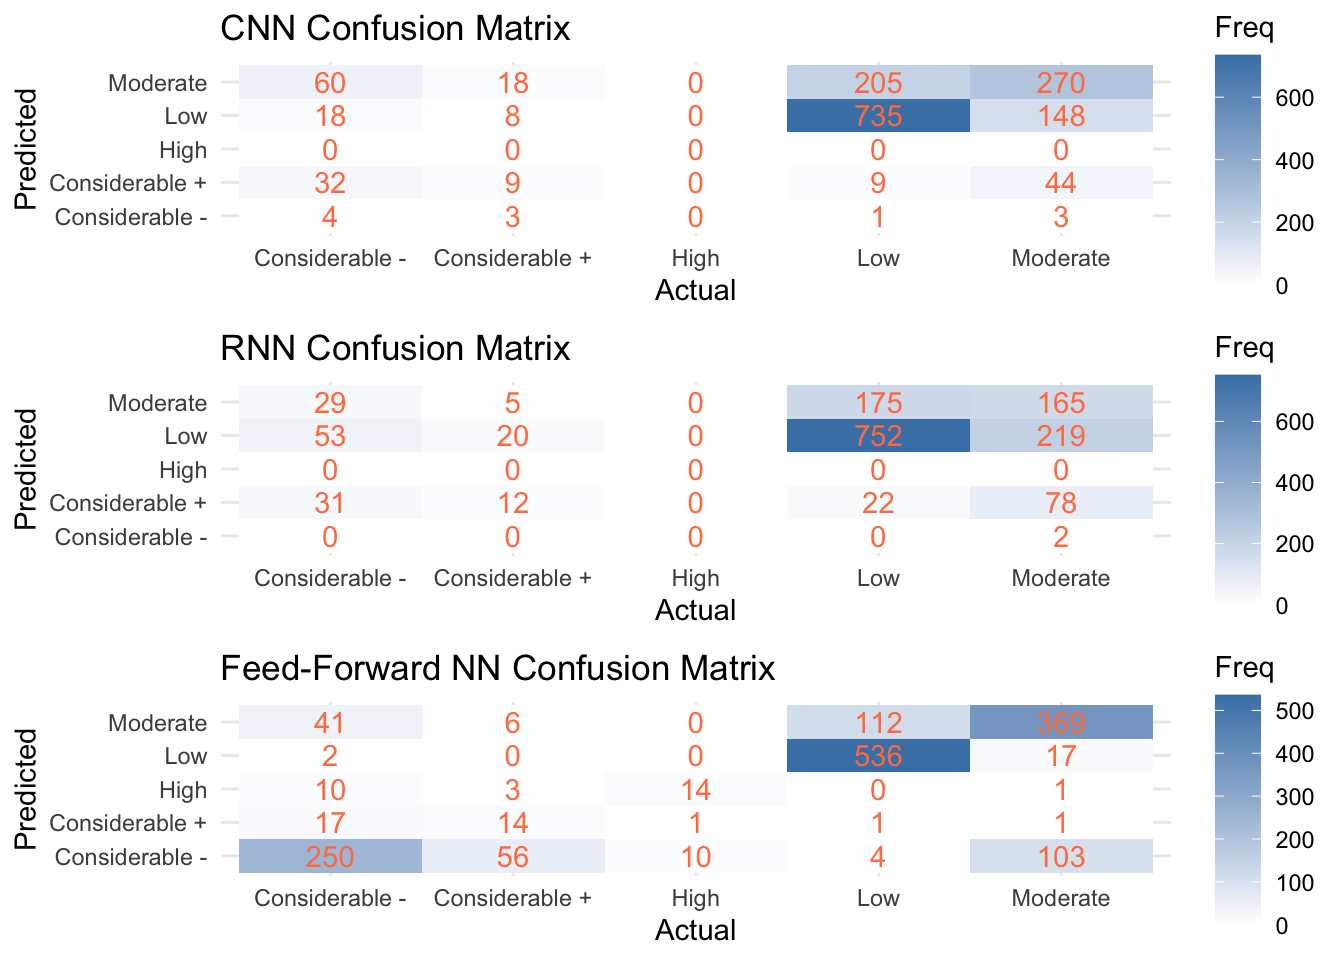
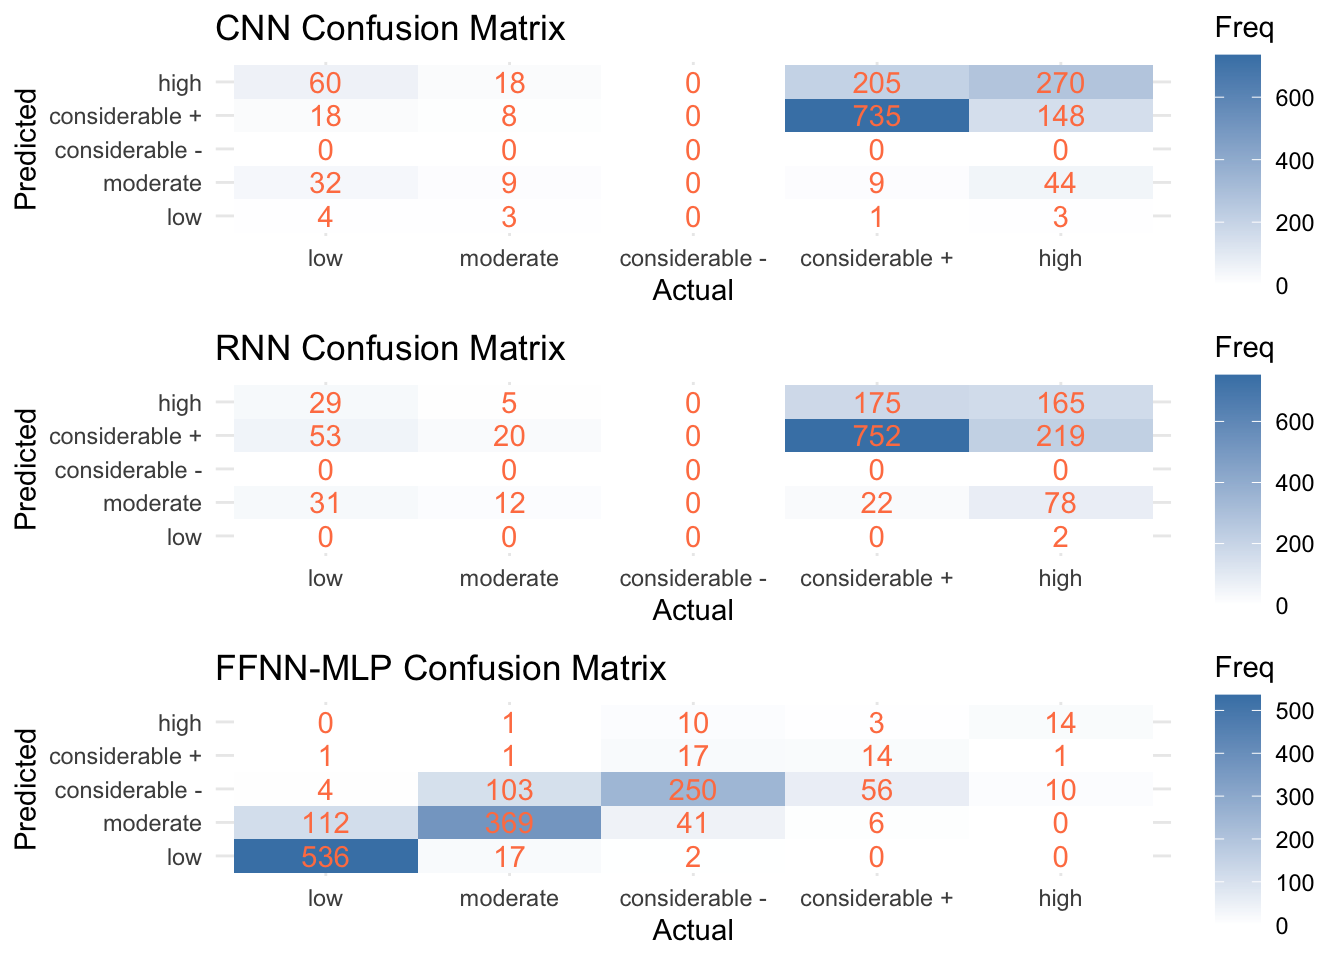
website preps

diff --git a/docs/DS4i_writeup.html b/docs/DS4i_writeup.html
@@ -112,6 +112,10 @@ ul.task-list li input[type="checkbox"] {
     <a class="nav-link" href="./llm_use.html"> 
 <span class="menu-text">LLM use</span></a>
   </li>  
+  <li class="nav-item">
+    <a class="nav-link" href="./plag_decl.html"> 
+<span class="menu-text">Plagarism Declaration</span></a>
+  </li>  
 </ul>
           </div> <!-- /navcollapse -->
             <div class="quarto-navbar-tools">
@@ -158,6 +162,9 @@ ul.task-list li input[type="checkbox"] {
 <p><span style="font-size:12px">Photo by Nicolas Cool on Unsplash</span></p>
 <section id="abstract" class="level2">
 <h2 class="anchored" data-anchor-id="abstract">Abstract</h2>
+<p>This study evaluates the potential of neural networks for avalanche forecasting in Scotland, a region where research has been sparse and limited in scope. Using a 15-year archive of avalanche forecasts from the Scottish Avalanche Information Service (SAIS) across six regions (Creah Meagaidh, Glencoe, Lochaber, Northern Cairngorms, Southern Cairngorms, and Torridon), we compared three architectures: a feedforward multilayer perceptron (FFNN-MLP), a convolutional neural network (CNN), and a recurrent neural network (RNN). Each was selected for its theoretical strengths. Given the sequential nature of avalanche risk, we hypothesised that the CNN and RNN would outperform the FFNN-MLP.</p>
+<p>Contrary to this expectation, the FFNN-MLP achieved the best overall accuracy (75%) and the most balanced detection across hazard levels. The CNN (65% accuracy) and RNN (59% accuracy) both exhibited strong bias toward the majority “Low” and “Moderate” classes, and performed poorly on higher-risk cases. Even the FFNN-MLP struggled to identify rare but critical events, with a “High” hazard sensitivity of 0.56.</p>
+<p>These findings highlight both the promise and limitations of applying neural networks directly to avalanche hazard forecasting. While the FFNN-MLP proved most effective in this context, improving detection of minority, high-risk categories remains essential. Future research should prioritise methods for addressing class imbalance, region-specific modelling, and ensemble strategies to better capture Scotland’s diverse avalanche dynamics under changing climate conditions.</p>
 </section>
 <section id="introduction-and-literature-review" class="level2">
 <h2 class="anchored" data-anchor-id="introduction-and-literature-review">Introduction and Literature Review</h2>
@@ -928,7 +935,7 @@ Table&nbsp;9: CNN Statistics by Class
 </thead>
 <tbody>
 <tr class="odd">
-<td style="text-align: left;">Class: Considerable -</td>
+<td style="text-align: left;">Class: low</td>
 <td style="text-align: right;">0.0350877</td>
 <td style="text-align: right;">0.9951824</td>
 <td style="text-align: right;">0.3636364</td>
@@ -942,7 +949,7 @@ Table&nbsp;9: CNN Statistics by Class
 <td style="text-align: right;">0.5151351</td>
 </tr>
 <tr class="even">
-<td style="text-align: left;">Class: Considerable +</td>
+<td style="text-align: left;">Class: moderate</td>
 <td style="text-align: right;">0.2368421</td>
 <td style="text-align: right;">0.9444081</td>
 <td style="text-align: right;">0.0957447</td>
@@ -956,7 +963,7 @@ Table&nbsp;9: CNN Statistics by Class
 <td style="text-align: right;">0.5906251</td>
 </tr>
 <tr class="odd">
-<td style="text-align: left;">Class: High</td>
+<td style="text-align: left;">Class: considerable -</td>
 <td style="text-align: right;">NA</td>
 <td style="text-align: right;">1.0000000</td>
 <td style="text-align: right;">NA</td>
@@ -970,7 +977,7 @@ Table&nbsp;9: CNN Statistics by Class
 <td style="text-align: right;">NA</td>
 </tr>
 <tr class="even">
-<td style="text-align: left;">Class: Low</td>
+<td style="text-align: left;">Class: considerable +</td>
 <td style="text-align: right;">0.7736842</td>
 <td style="text-align: right;">0.7179903</td>
 <td style="text-align: right;">0.8085809</td>
@@ -984,7 +991,7 @@ Table&nbsp;9: CNN Statistics by Class
 <td style="text-align: right;">0.7458372</td>
 </tr>
 <tr class="odd">
-<td style="text-align: left;">Class: Moderate</td>
+<td style="text-align: left;">Class: high</td>
 <td style="text-align: right;">0.5806452</td>
 <td style="text-align: right;">0.7431942</td>
 <td style="text-align: right;">0.4882459</td>
@@ -1033,7 +1040,7 @@ Table&nbsp;10: RNN Statistics by Class
 </thead>
 <tbody>
 <tr class="odd">
-<td style="text-align: left;">Class: Considerable -</td>
+<td style="text-align: left;">Class: low</td>
 <td style="text-align: right;">0.0000000</td>
 <td style="text-align: right;">0.9986207</td>
 <td style="text-align: right;">0.0000000</td>
@@ -1047,7 +1054,7 @@ Table&nbsp;10: RNN Statistics by Class
 <td style="text-align: right;">0.4993103</td>
 </tr>
 <tr class="even">
-<td style="text-align: left;">Class: Considerable +</td>
+<td style="text-align: left;">Class: moderate</td>
 <td style="text-align: right;">0.3243243</td>
 <td style="text-align: right;">0.9141547</td>
 <td style="text-align: right;">0.0839161</td>
@@ -1061,7 +1068,7 @@ Table&nbsp;10: RNN Statistics by Class
 <td style="text-align: right;">0.6192395</td>
 </tr>
 <tr class="odd">
-<td style="text-align: left;">Class: High</td>
+<td style="text-align: left;">Class: considerable -</td>
 <td style="text-align: right;">NA</td>
 <td style="text-align: right;">1.0000000</td>
 <td style="text-align: right;">NA</td>
@@ -1075,7 +1082,7 @@ Table&nbsp;10: RNN Statistics by Class
 <td style="text-align: right;">NA</td>
 </tr>
 <tr class="even">
-<td style="text-align: left;">Class: Low</td>
+<td style="text-align: left;">Class: considerable +</td>
 <td style="text-align: right;">0.7924131</td>
 <td style="text-align: right;">0.5244300</td>
 <td style="text-align: right;">0.7203065</td>
@@ -1089,7 +1096,7 @@ Table&nbsp;10: RNN Statistics by Class
 <td style="text-align: right;">0.6584215</td>
 </tr>
 <tr class="odd">
-<td style="text-align: left;">Class: Moderate</td>
+<td style="text-align: left;">Class: high</td>
 <td style="text-align: right;">0.3556034</td>
 <td style="text-align: right;">0.8098271</td>
 <td style="text-align: right;">0.4411765</td>
@@ -1138,7 +1145,35 @@ Table&nbsp;11: FFNN Statistics by Class
 </thead>
 <tbody>
 <tr class="odd">
-<td style="text-align: left;">Class: Considerable -</td>
+<td style="text-align: left;">Class: low</td>
+<td style="text-align: right;">0.8208270</td>
+<td style="text-align: right;">0.9792350</td>
+<td style="text-align: right;">0.9657658</td>
+<td style="text-align: right;">0.8845015</td>
+<td style="text-align: right;">0.9657658</td>
+<td style="text-align: right;">0.8208270</td>
+<td style="text-align: right;">0.8874172</td>
+<td style="text-align: right;">0.4164541</td>
+<td style="text-align: right;">0.3418367</td>
+<td style="text-align: right;">0.3539541</td>
+<td style="text-align: right;">0.9000310</td>
+</tr>
+<tr class="even">
+<td style="text-align: left;">Class: moderate</td>
+<td style="text-align: right;">0.7515275</td>
+<td style="text-align: right;">0.8523677</td>
+<td style="text-align: right;">0.6988636</td>
+<td style="text-align: right;">0.8826923</td>
+<td style="text-align: right;">0.6988636</td>
+<td style="text-align: right;">0.7515275</td>
+<td style="text-align: right;">0.7242395</td>
+<td style="text-align: right;">0.3131378</td>
+<td style="text-align: right;">0.2353316</td>
+<td style="text-align: right;">0.3367347</td>
+<td style="text-align: right;">0.8019476</td>
+</tr>
+<tr class="odd">
+<td style="text-align: left;">Class: considerable -</td>
 <td style="text-align: right;">0.7812500</td>
 <td style="text-align: right;">0.8613782</td>
 <td style="text-align: right;">0.5910165</td>
@@ -1152,7 +1187,7 @@ Table&nbsp;11: FFNN Statistics by Class
 <td style="text-align: right;">0.8213141</td>
 </tr>
 <tr class="even">
-<td style="text-align: left;">Class: Considerable +</td>
+<td style="text-align: left;">Class: considerable +</td>
 <td style="text-align: right;">0.1772152</td>
 <td style="text-align: right;">0.9865682</td>
 <td style="text-align: right;">0.4117647</td>
@@ -1166,7 +1201,7 @@ Table&nbsp;11: FFNN Statistics by Class
 <td style="text-align: right;">0.5818917</td>
 </tr>
 <tr class="odd">
-<td style="text-align: left;">Class: High</td>
+<td style="text-align: left;">Class: high</td>
 <td style="text-align: right;">0.5600000</td>
 <td style="text-align: right;">0.9909268</td>
 <td style="text-align: right;">0.5000000</td>
@@ -1178,34 +1213,6 @@ Table&nbsp;11: FFNN Statistics by Class
 <td style="text-align: right;">0.0089286</td>
 <td style="text-align: right;">0.0178571</td>
 <td style="text-align: right;">0.7754634</td>
-</tr>
-<tr class="even">
-<td style="text-align: left;">Class: Low</td>
-<td style="text-align: right;">0.8208270</td>
-<td style="text-align: right;">0.9792350</td>
-<td style="text-align: right;">0.9657658</td>
-<td style="text-align: right;">0.8845015</td>
-<td style="text-align: right;">0.9657658</td>
-<td style="text-align: right;">0.8208270</td>
-<td style="text-align: right;">0.8874172</td>
-<td style="text-align: right;">0.4164541</td>
-<td style="text-align: right;">0.3418367</td>
-<td style="text-align: right;">0.3539541</td>
-<td style="text-align: right;">0.9000310</td>
-</tr>
-<tr class="odd">
-<td style="text-align: left;">Class: Moderate</td>
-<td style="text-align: right;">0.7515275</td>
-<td style="text-align: right;">0.8523677</td>
-<td style="text-align: right;">0.6988636</td>
-<td style="text-align: right;">0.8826923</td>
-<td style="text-align: right;">0.6988636</td>
-<td style="text-align: right;">0.7515275</td>
-<td style="text-align: right;">0.7242395</td>
-<td style="text-align: right;">0.3131378</td>
-<td style="text-align: right;">0.2353316</td>
-<td style="text-align: right;">0.3367347</td>
-<td style="text-align: right;">0.8019476</td>
 </tr>
 </tbody>
 </table>
@@ -1244,12 +1251,12 @@ Figure&nbsp;13: Variable Importance for FFN-MLP.
 <section id="summary-of-findings" class="level3">
 <h3 class="anchored" data-anchor-id="summary-of-findings">Summary of Findings</h3>
 <p>In this study, we compared the ability of CNN, RNN, and FFNN-MLP models in predicting avalanches hazard levels. This was a multi-factorial investigation, as many different variables contribute to avalanche outcomes. The nature of this problem is sequential and we were able to preprocess that data to fit a time series context. We expected the CNN and RNN to outperform the FFNN-MLP since they have the added time series advantage.</p>
-<p>The FFNN-MLP turned out to be the best-performing model overall. It showed the most balanced detection and achiebed the best performance across hazard levels. The CNN struggled with the minority classes and mainly acted as a majority-class (“Low” hazard) detector despite the controls put in place to re-weight the classes. This is unsatisfactory because in a real forecasting setting, it’s of great importance that we can detect the higher-risk cases. The RNN performed wrost overall, missing nearly all the minority class instances (“Considerable+”, “Considerable-”), and doing <em>fairly</em> well with the majority cases but still not as well as the other two models. This strongly disagrees with our initial hypothesis that sequential models would benefit from time series dependencies.</p>
+<p>The FFNN-MLP turned out to be the best-performing model overall. It showed the most balanced detection and achieved the best performance across hazard levels. The CNN struggled with the minority classes and mainly acted as a majority-class (“Low” hazard) detector despite the controls put in place to re-weight the classes. This is unsatisfactory because in a real forecasting setting, it’s of great importance that we can detect the higher-risk cases. The RNN performed worst overall, missing nearly all the minority class instances (“Considerable+”, “Considerable-”), and doing <em>fairly</em> well with the majority cases but still not as well as the other two models. This strongly disagrees with our initial hypothesis that sequential models would benefit from time series dependencies.</p>
 <p>A clear strength across all models is that they handled the majority class fairly well. On the other hand, all three models showed clear bias toward the most common categories. None of them did especially well with the higher-risk, minority classes. The highlights a weakness in applying these models directly without addressing the class imbalance and customising the class weights more in favour of the minority classes could help counteract this measure.</p>
 </section>
 <section id="improvements-future-contributions" class="level3">
 <h3 class="anchored" data-anchor-id="improvements-future-contributions">Improvements &amp; Future Contributions</h3>
-<p>While the present study used only complete cases for modelling, avalanche forecasters in practice must often make predictions despite missing data. Imputation was considered, but fell outside the scope of evaluating NN performance. Developing an imputation model for this dataset could be a way of meaningfully improving its practical use, robustness, and accuracy overall. Secondly, Incorporating climate change effects by accounting for evolving weather and snowpack conditions alongside historical data could be a helpful tactic for researchers. Our models show that seasonal patterns are influential in predicting the risk. One reason this may be, is due to the evolving impact of climate change on the snow pack and ice condition. Furthermore, one may consider exploring region-specific models to reflect Scotland’s highly localized weather patterns and improve forecast reliability. Lastly, We restricted our hypothesis set to neural network models only, butthese may not be best suited to this data. Therefore, exploring alternative model types, such as gradient boosting or hybrid deep learning ensembles, to better handle categorical data and strengthen predictions could allow for more accurate prediction.</p>
+<p>While the present study used only complete cases for modelling, avalanche forecasters in practice must often make predictions despite missing data. Imputation was considered, but fell outside the scope of evaluating NN performance. Developing an imputation model for this dataset could be a way of meaningfully improving its practical use, robustness, and accuracy overall. Secondly, Incorporating climate change effects by accounting for evolving weather and snowpack conditions alongside historical data could be a helpful tactic for researchers. Our models show that seasonal patterns are influential in predicting the risk. One reason this may be, is due to the evolving impact of climate change on the snow pack and ice condition. Furthermore, one may consider exploring region-specific models to reflect Scotland’s highly localized weather patterns and improve forecast reliability. Lastly, We restricted our hypothesis set to neural network models only, but these may not be best suited to this data. Therefore, exploring alternative model types, such as gradient boosting or hybrid deep learning ensembles, to better handle categorical data and strengthen predictions could allow for more accurate prediction.</p>
 </section>
 </section>
 <section id="conclusion" class="level2">

diff --git a/docs/plag_decl.html b/docs/plag_decl.html
@@ -7,7 +7,7 @@
 <meta name="viewport" content="width=device-width, initial-scale=1.0, user-scalable=yes">
 
 
-<title>LLM use – DS4i Writeup</title>
+<title>Plagarism Declaration – DS4i Writeup</title>
 <style>
 code{white-space: pre-wrap;}
 span.smallcaps{font-variant: small-caps;}
@@ -96,11 +96,11 @@ ul.task-list li input[type="checkbox"] {
 <span class="menu-text">Modelling</span></a>
   </li>  
   <li class="nav-item">
-    <a class="nav-link active" href="./llm_use.html" aria-current="page"> 
+    <a class="nav-link" href="./llm_use.html"> 
 <span class="menu-text">LLM use</span></a>
   </li>  
   <li class="nav-item">
-    <a class="nav-link" href="./plag_decl.html"> 
+    <a class="nav-link active" href="./plag_decl.html" aria-current="page"> 
 <span class="menu-text">Plagarism Declaration</span></a>
   </li>  
 </ul>
@@ -120,7 +120,7 @@ ul.task-list li input[type="checkbox"] {
 
 <header id="title-block-header" class="quarto-title-block default">
 <div class="quarto-title">
-<h1 class="title">LLM use</h1>
+<h1 class="title">Plagarism Declaration</h1>
 </div>
 
 
@@ -137,12 +137,24 @@ ul.task-list li input[type="checkbox"] {
 </header>
 
 
-<section id="llm-use-notes" class="level1">
-<h1>LLM Use Notes</h1>
-<p>Placeholder. Add content later.</p>
+<p><strong>Department of Statistical Sciences Plagiarism Declaration form</strong></p>
+<p><strong><em>A copy of this form, completed and signed, to be attached to all coursework submissions to the Statistical Sciences Department. Submissions without this form will not be marked.</em></strong></p>
+<p><strong>COURSE CODE</strong>: STA5073Z</p>
+<p><strong>COURSE NAME</strong>: Data Science for Industry</p>
+<p><strong>STUDENT NAMES</strong>: Don Gwese; Matthew Russell; Nina Lewis; Aidan Thomas; Sanana Mwanawina</p>
+<p><strong>STUDENT NUMBERS</strong>: GWSDON002; RSSMAT013; LWSNIN001; THMAID005; MWNSAN002</p>
+<ol type="1">
+<li>I know that plagiarism is wrong. Plagiarism is to use another’s work and pretend that it is one’s own.</li>
+<li>I have used a generally accepted citation and referencing style. Each contribution to, and quotation in, this tutorial/report/project from the work(s) of other people has been attributed, and has been cited and referenced.</li>
+<li>This tutorial/report/project is our own work.</li>
+<li>I have not allowed, and will not allow, anyone to copy our work with the intention of passing it off as his or her own work.</li>
+<li>I acknowledge that copying someone else’s assignment or essay, or part of it, is wrong, and declare that this is our own work.</li>
+</ol>
+<p>Note that agreement to this statement does not exonerate you from UCT’s Academic Misconduct policy (https://uct.ac.za/media/584410).</p>
+<p><strong>Signature</strong>: D.Gwese; M.Russell; N.Lewis; A.Thomas; S.Mwanawina</p>
+<p><strong>Date</strong>: 28 September 2025</p>
 
 
-</section>
 
 </main> <!-- /main -->
 <script id="quarto-html-after-body" type="application/javascript">

diff --git a/docs/index.html b/docs/index.html
@@ -99,6 +99,10 @@ ul.task-list li input[type="checkbox"] {
     <a class="nav-link" href="./llm_use.html"> 
 <span class="menu-text">LLM use</span></a>
   </li>  
+  <li class="nav-item">
+    <a class="nav-link" href="./plag_decl.html"> 
+<span class="menu-text">Plagarism Declaration</span></a>
+  </li>  
 </ul>
           </div> <!-- /navcollapse -->
             <div class="quarto-navbar-tools">
